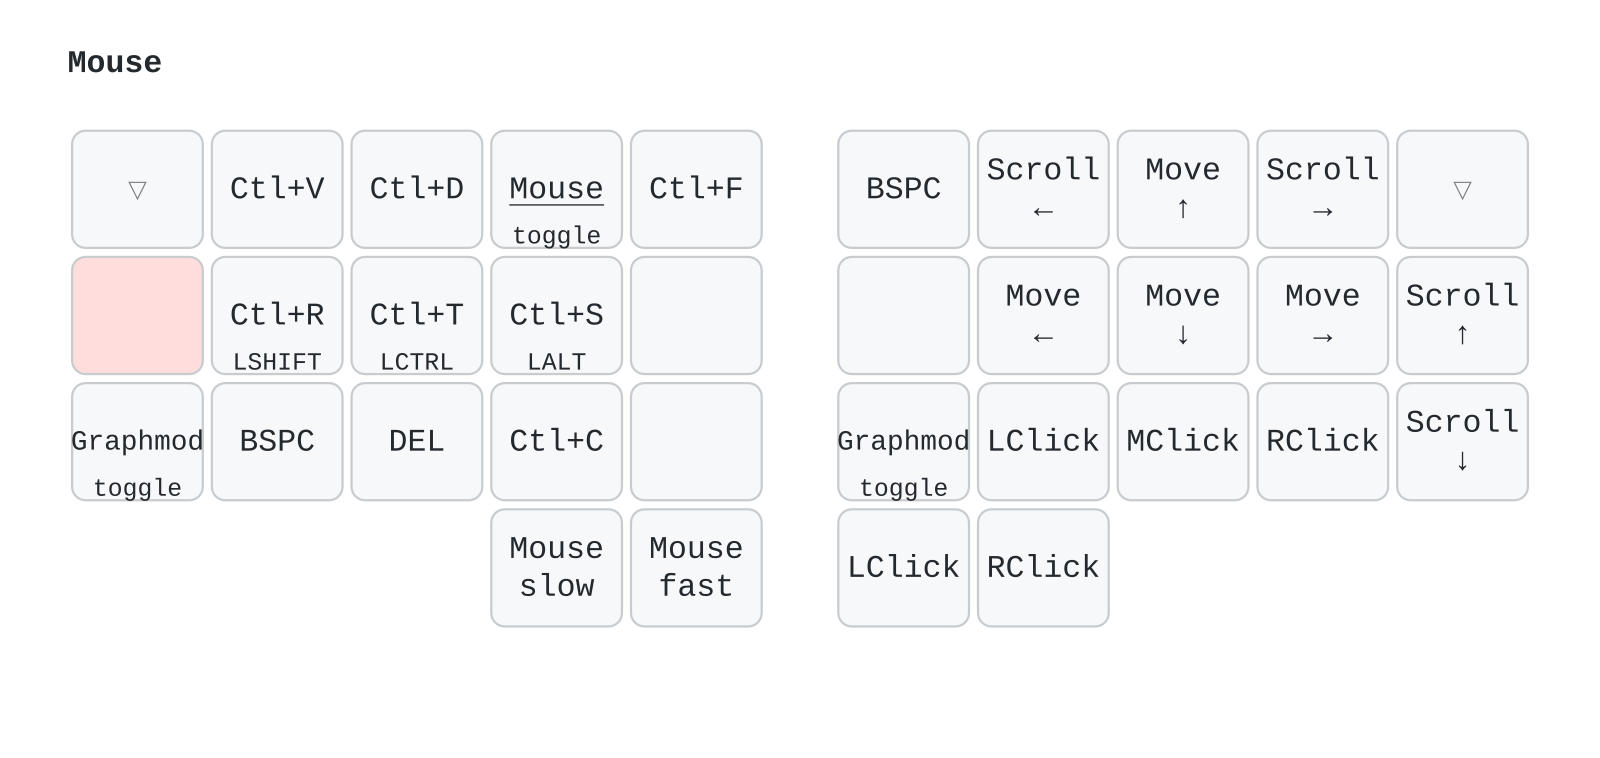
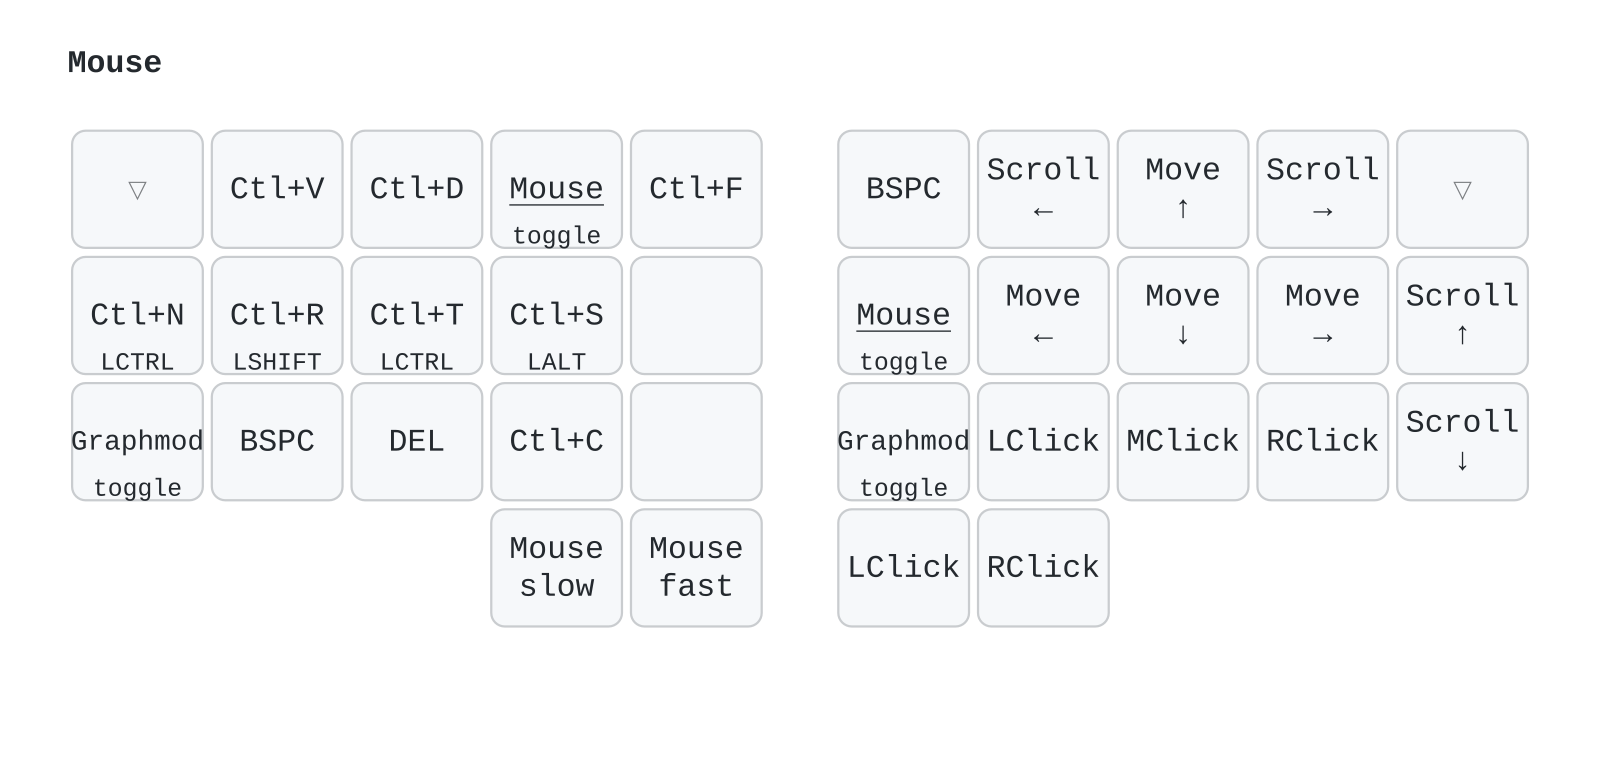
Hold C for the Mouse layer, N becomes Gui home-row mod
AS_C's default binding is now HML_LT L_MOUSE C: an HML-tuned hold-tap
with &mo as the hold, so C still adapts on tap. The thumbs count as hold
triggers so the mouse speed layers work right after it. N on Graphmod
becomes HML LGUI N, and the Mouse layer gets a second lock at pos 15.

Changed region(s): [[0.0312, 0.3338, 0.125, 0.5158], [0.5312, 0.3945, 0.5938, 0.4855]]

diff --git a/tools/sync-oryx.py b/tools/sync-oryx.py
@@ -278,10 +278,10 @@ KEYMAP = REPO / "config" / "kibard.keymap"
 # ZMK behaviours that are equivalent to a plainer form for comparison purposes:
 # the Kibard uses tuned hold-taps where Oryx has the stock QMK behaviour.
 EQUIVALENT = {
-    "HML": "mt", "HMR": "mt", "NUM": "mt",   # tuned home-row / numpad hold-taps
+    "HML": "mt", "HMR": "mt", "NUM": "mt", "HML_LT": "lt",   # tuned home-row / numpad hold-taps
     "LT_TH": "lt",                           # thumb layer-tap
     # Adaptive keys on Graphmod: compare as the default binding.
-    "AS_E": "mt LSHIFT E", "AS_H": "mt LALT H", "AS_O": "kp O", "AS_D": "kp D", "AS_C": "kp C",
+    "AS_E": "mt LSHIFT E", "AS_H": "mt LALT H", "AS_O": "kp O", "AS_D": "kp D", "AS_C": "lt L_MOUSE C",
     # One-way adaptive keys on Alpha+: compare as the default binding.
     "AK_X": "mt LCTRL X", "AK_Z": "kp Z", "AK_S": "mt LSHIFT S",
     "AK_T": "kp T", "AK_D": "mt LCTRL D",

diff --git a/CLAUDE.md b/CLAUDE.md
@@ -60,7 +60,7 @@ Defined in `config/kibard.keymap`. Layer indices:
 | 1 | Symbols | left thumb hold (`LT_TH L_SYM SPACE`, pos 30) |
 | 2 | Symbols+ | `LT_TH L_SYMP SE_AT` hold on Symbols (pos 10) |
 | 3 | Numpad | left thumb hold (`LT_TH L_NUM ESC`, pos 31), or `to L_NUM` from Navigate |
-| 4 | Mouse | `LT_TH L_MOUSE N` hold (pos 10) |
+| 4 | Mouse | `HML_LT L_MOUSE C` hold inside `AS_C` (pos 23) |
 | 5 | Alpha+ | right thumb hold (`LT_TH L_ALPHAP RET`, pos 33), or `lt L_ALPHAP N0` on Numpad (pos 33) |
 | 6 | Navigate | right thumb hold (`LT_TH L_NAV TAB`, pos 32) |
 | 7 | Vim | `lt L_VIM B` (pos 14) |
@@ -114,7 +114,9 @@ They live on `AS_E`, `AS_O`, `AS_H`, `AS_D` and `AS_C`. A rule fires only while 
 trigger must be pressed less than `AS_IDLE_MS` (300 ms) earlier, with no modifier
 other than Shift (`strict-modifiers` plus `LS`/`RS` triggers via `AS_TRIGGER`),
 so shortcuts like Ctrl+F don't trigger it. Adapted output is a plain `&kp` with
-no home-row-mod or layer hold.
+no home-row-mod or layer hold. `AS_C`'s default binding is `HML_LT L_MOUSE C`: an
+HML-tuned hold-tap whose hold is `&mo L_MOUSE` (the thumbs count as hold
+triggers too, for the mouse speed layers).
 
 `AK_*` are one-way adaptive keys on Alpha+ (layer 5): `JX → JU`, `JZ → JO`,
 `ÅS → ÅR`, `FT → FÖ`, `MD → MÖ`, `ÖS → ÖR`. J, Å, X and Z live only on Alpha+, so these
